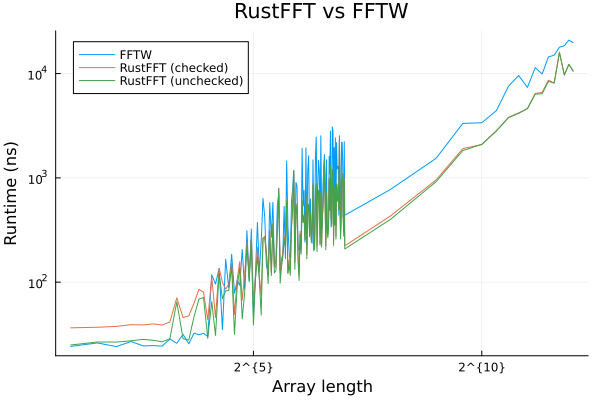
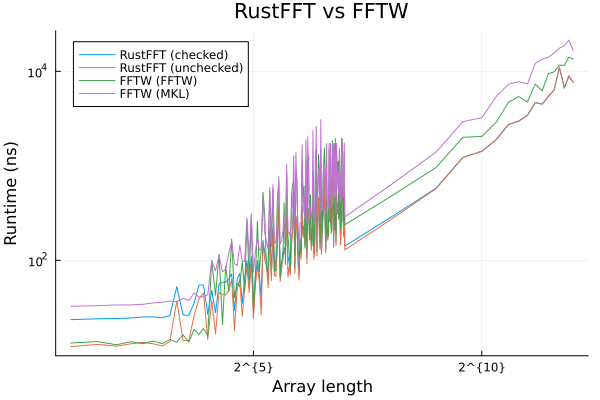
Add FFTW with MKL provider to benchmark results

diff --git a/README.md b/README.md
@@ -45,9 +45,9 @@ RustFFT has been benchmarked against FFTW on a PC with the following specs:
 
 OS: Ubuntu 22.04.2 LTS
 
-CPU: AMD Ryzen 5 3600
+CPU: Intel Core i7-12700H
 
-RAM: 16GB
+RAM: 32GB
 
 Julia: 1.9.2
 
